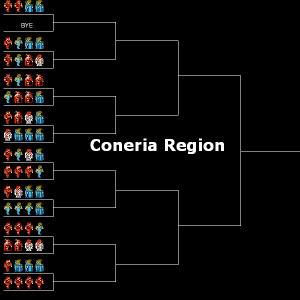
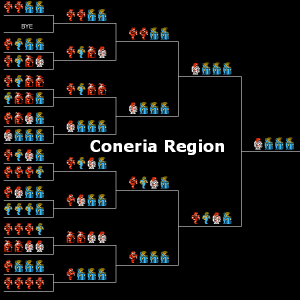
- add results from Coneria region

diff --git a/js/regions.js b/js/regions.js
@@ -9,13 +9,14 @@ var FFRegionData = (function() {
            ,["Th - WM - BM - BM", "BB - BB - BB - BM"]
            ,["Fi - Fi - Fi - BB", "RM - RM - WM - WM"]
            ,["Th - BM - BM - BM", "Fi - Fi - Fi - Fi"]],
-    round2:[["", ""]
-           ,["", ""]
-           ,["", ""]
-           ,["", ""]],
-    round3:[["", ""],["", ""]],
-    round4:[["", ""]],
-    round5:[""]};
+    round2:[["Fi - Fi - BM - BM", "Fi - BB - RM - WM"]
+           ,["Fi - BB - RM - RM", "WM - BM - BM - BM"]
+           ,["Fi - BB - WM - BM", "Th - WM - BM - BM"]
+           ,["RM - RM - WM - WM", "Th - BM - BM - BM"]],
+    round3:[["Fi - Fi - BM - BM", "WM - BM - BM - BM"]
+           ,["Fi - BB - WM - BM", "Th - BM - BM - BM"]],
+    round4:[["WM - BM - BM - BM", "Fi - BB - WM - BM"]],
+    round5:["WM - BM - BM - BM"]};
   
   var Pravoka = {
     round1:[["Fi - Th - Th - BM", "Fi - RM - BM - BM"]
@@ -144,7 +145,7 @@ var FFRegionData = (function() {
     round5:[""]}; 
   
   var Championship = {
-    round1:[["", ""] // Coneria v Pravoka
+    round1:[["WM - BM - BM - BM", ""] // Coneria v Pravoka
            ,["", ""] // Elfland v Melmond
            ,["", ""] // Crescent Lake v Onrac
            ,["", ""]] // Gaia v Lefein
